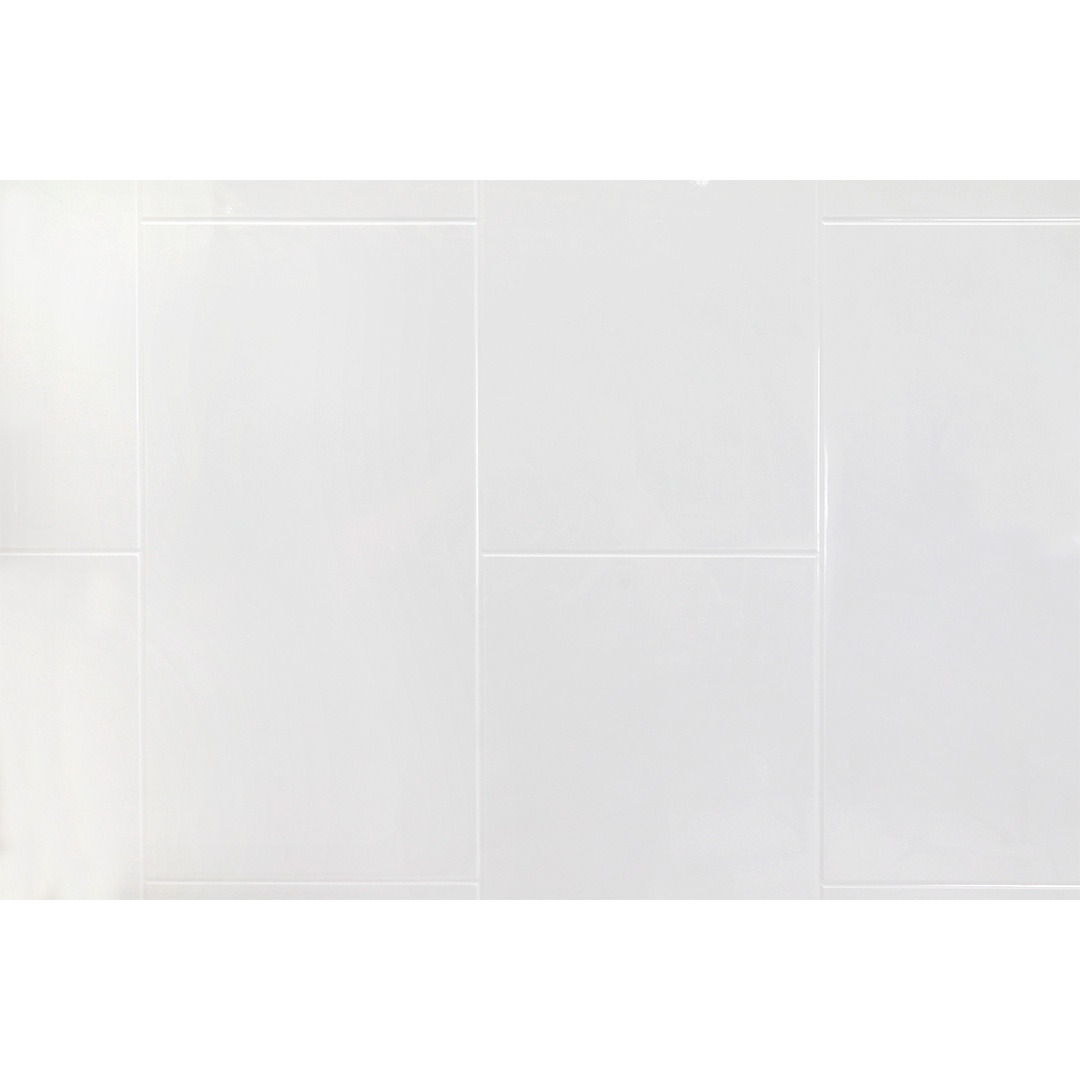
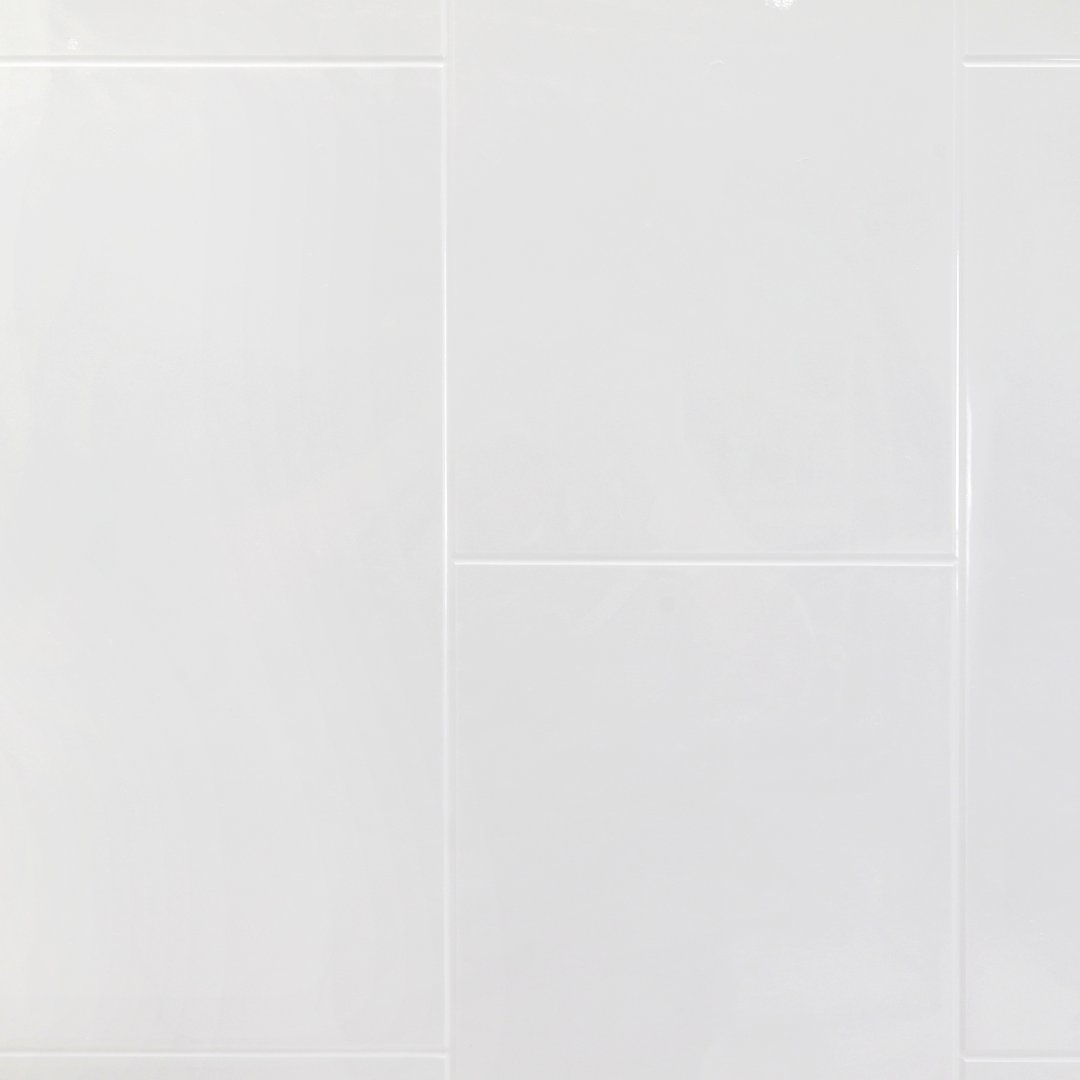
Upgrade 22 tile close-up photos with sharper real photography, white modal viewer background
- Replaced 22 surround texture close-ups with higher-quality real photos from
  the company's photo shoot (cropped to square, resized to 1080px, compressed
  for web); noticeably sharper detail and lighting than the previous versions
- Changed the product modal image viewer background from navy to white, with
  matching updates to the zoom controls and close button so they stay visible

Changed region(s): [[0.0, 0.825, 1.0, 1.0], [0.0, 0.0, 1.0, 0.1833]]

diff --git a/css/style.css b/css/style.css
@@ -235,17 +235,17 @@ footer{background:var(--navy);padding:48px 80px 28px}
 @keyframes slideUp{from{opacity:0;transform:translateY(24px)}to{opacity:1;transform:translateY(0)}}
 
 /* Image viewer */
-.modal-viewer{position:relative;height:560px;flex-shrink:0;background:#0d2246;border-radius:20px 20px 0 0;overflow:hidden;cursor:grab}
+.modal-viewer{position:relative;height:560px;flex-shrink:0;background:#fff;border-radius:20px 20px 0 0;overflow:hidden;cursor:grab;border-bottom:1px solid #e5e7eb}
 .modal-viewer.dragging{cursor:grabbing}
 .modal-viewer-img-wrap{width:100%;height:100%;overflow:hidden;position:relative}
 .modal-viewer-img{width:100%;height:100%;object-fit:contain;transform-origin:center;
   transition:transform .1s ease;user-select:none;pointer-events:none}
 .viewer-controls{position:absolute;bottom:12px;right:12px;display:flex;gap:6px;z-index:10}
-.viewer-btn{background:rgba(255,255,255,.15);backdrop-filter:blur(4px);color:#fff;border:none;
+.viewer-btn{background:rgba(13,34,70,.08);color:var(--navy);border:none;
   border-radius:8px;width:34px;height:34px;font-size:1rem;cursor:pointer;
   display:flex;align-items:center;justify-content:center;transition:background .2s}
-.viewer-btn:hover{background:rgba(255,255,255,.3)}
-.viewer-zoom-hint{position:absolute;bottom:12px;left:12px;color:rgba(255,255,255,.55);
+.viewer-btn:hover{background:rgba(13,34,70,.16)}
+.viewer-zoom-hint{position:absolute;bottom:12px;left:12px;color:var(--gray);
   font-size:.7rem;letter-spacing:.5px}
 
 /* Thumbnail strip */
@@ -279,7 +279,7 @@ footer{background:var(--navy);padding:48px 80px 28px}
 .modal-header-text .mcat{font-size:.68rem;text-transform:uppercase;letter-spacing:2px;color:var(--orange);font-weight:700;padding-top:12px;display:block}
 .modal-header-text h2{font-family:'Montserrat',sans-serif;font-size:1.5rem;font-weight:800;color:#fff}
 .modal-close{position:absolute;top:12px;right:12px;width:32px;height:32px;z-index:20;
-  background:rgba(255,255,255,.9);border:none;border-radius:50%;cursor:pointer;
+  background:rgba(255,255,255,.9);border:none;border-radius:50%;cursor:pointer;box-shadow:0 2px 8px rgba(13,34,70,.15);
   font-size:.95rem;font-weight:700;color:var(--navy);display:flex;align-items:center;justify-content:center}
 .modal-close:hover{background:#fff}
 .modal-actions{display:flex;gap:10px;margin-top:4px}
